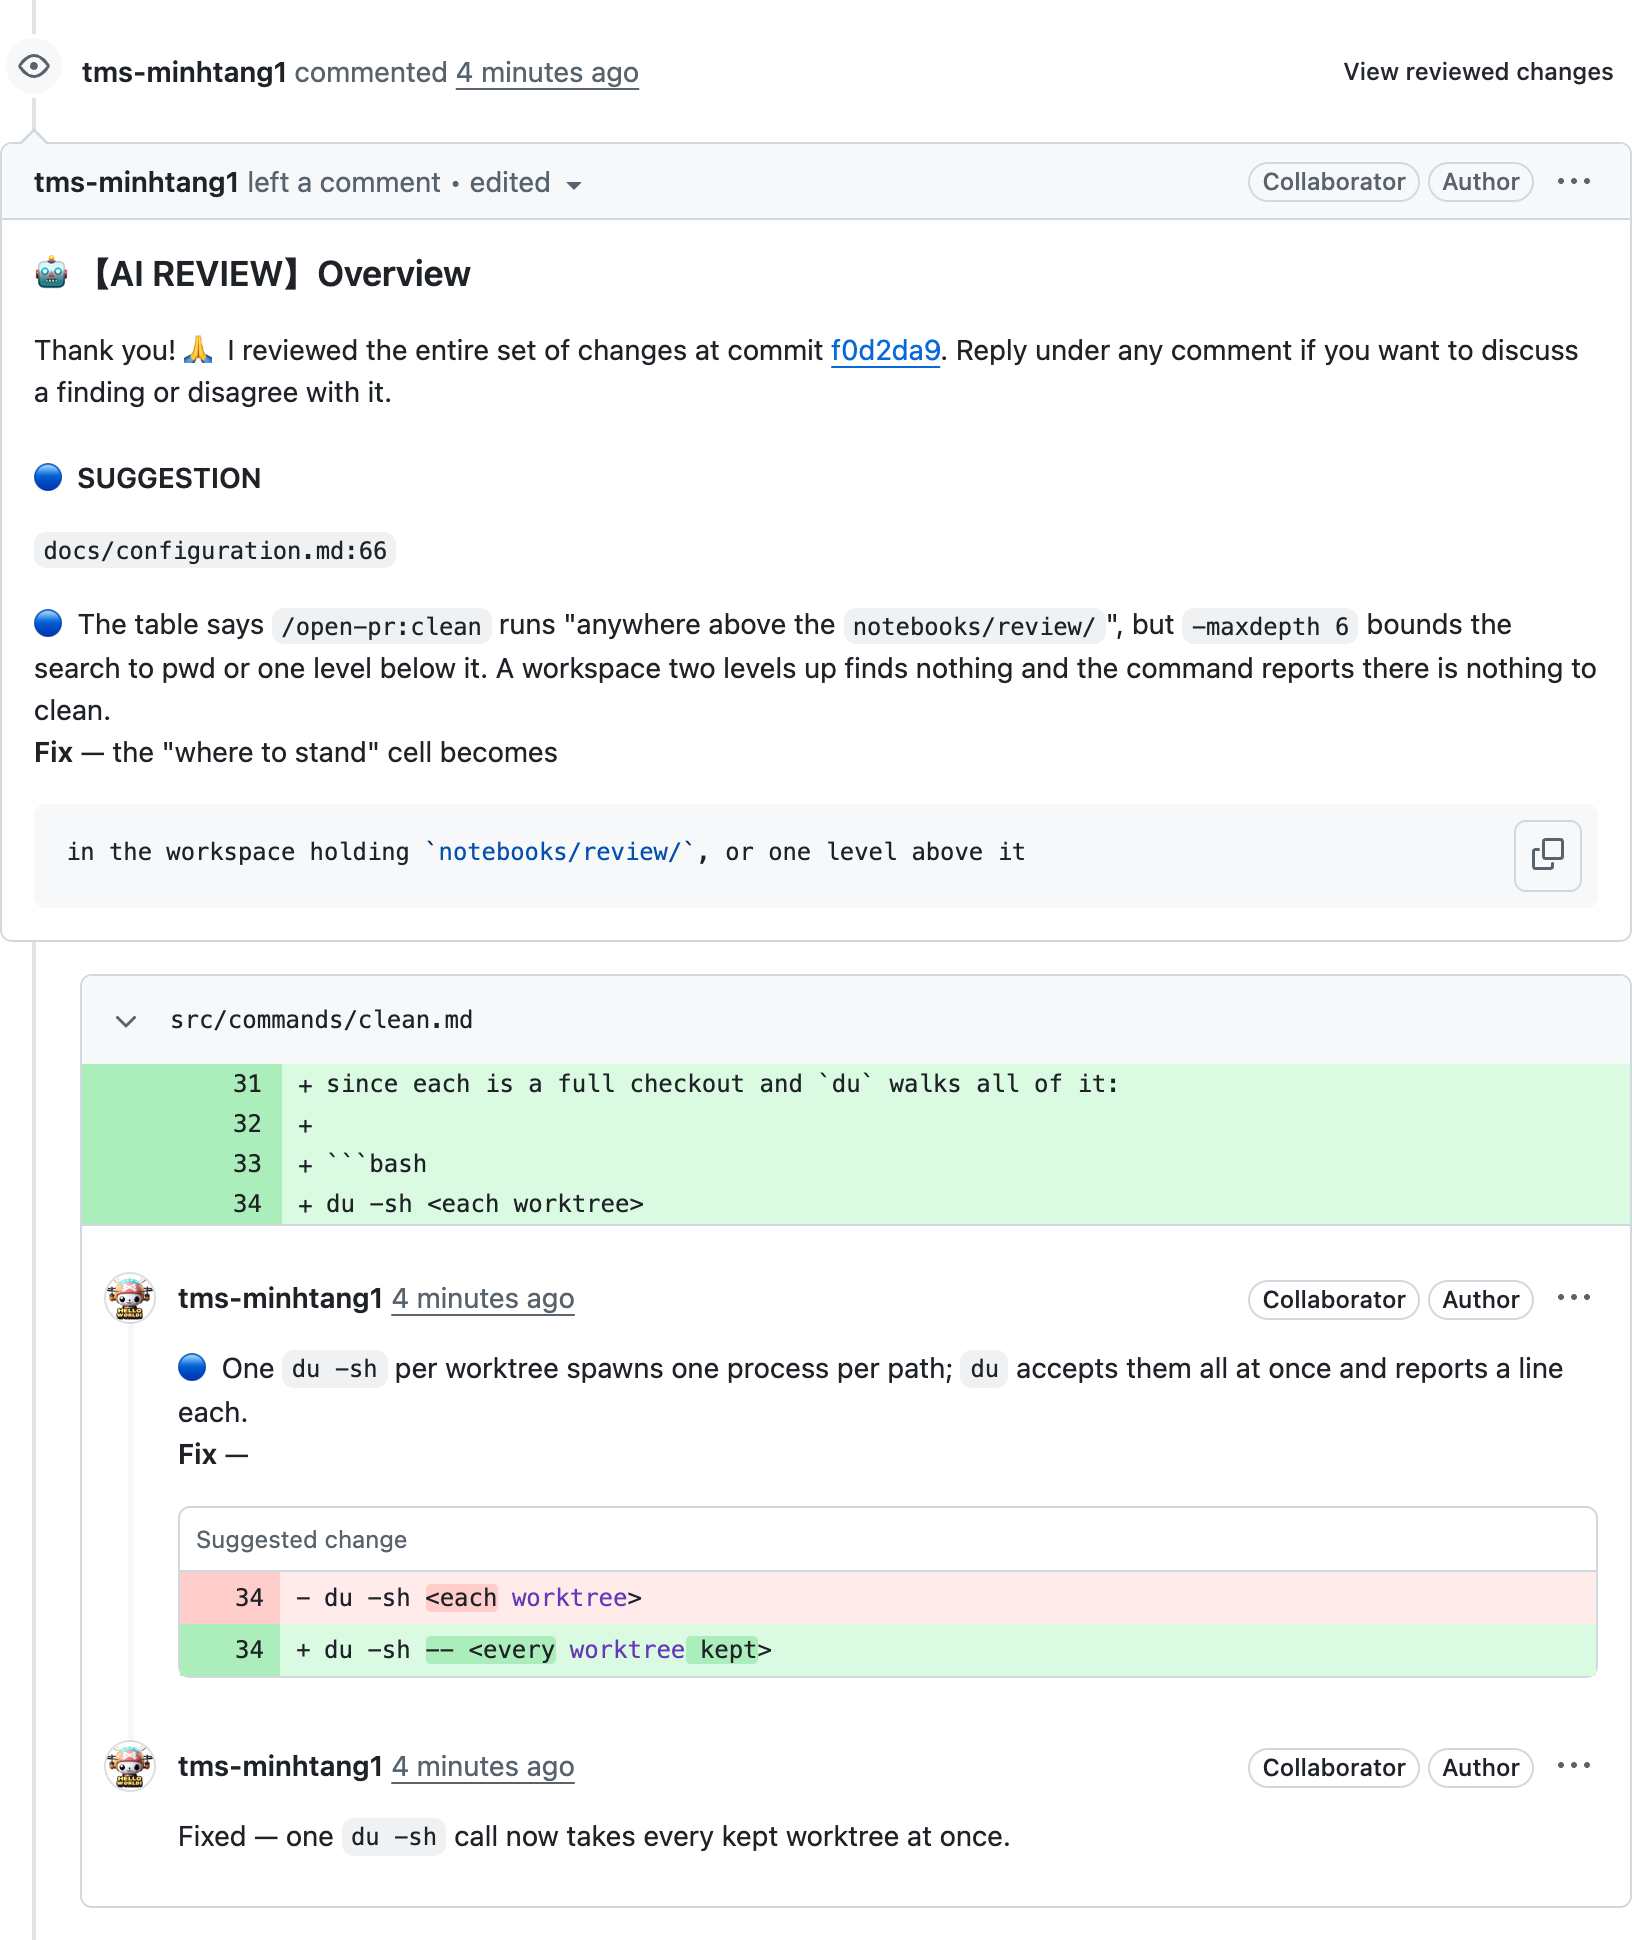
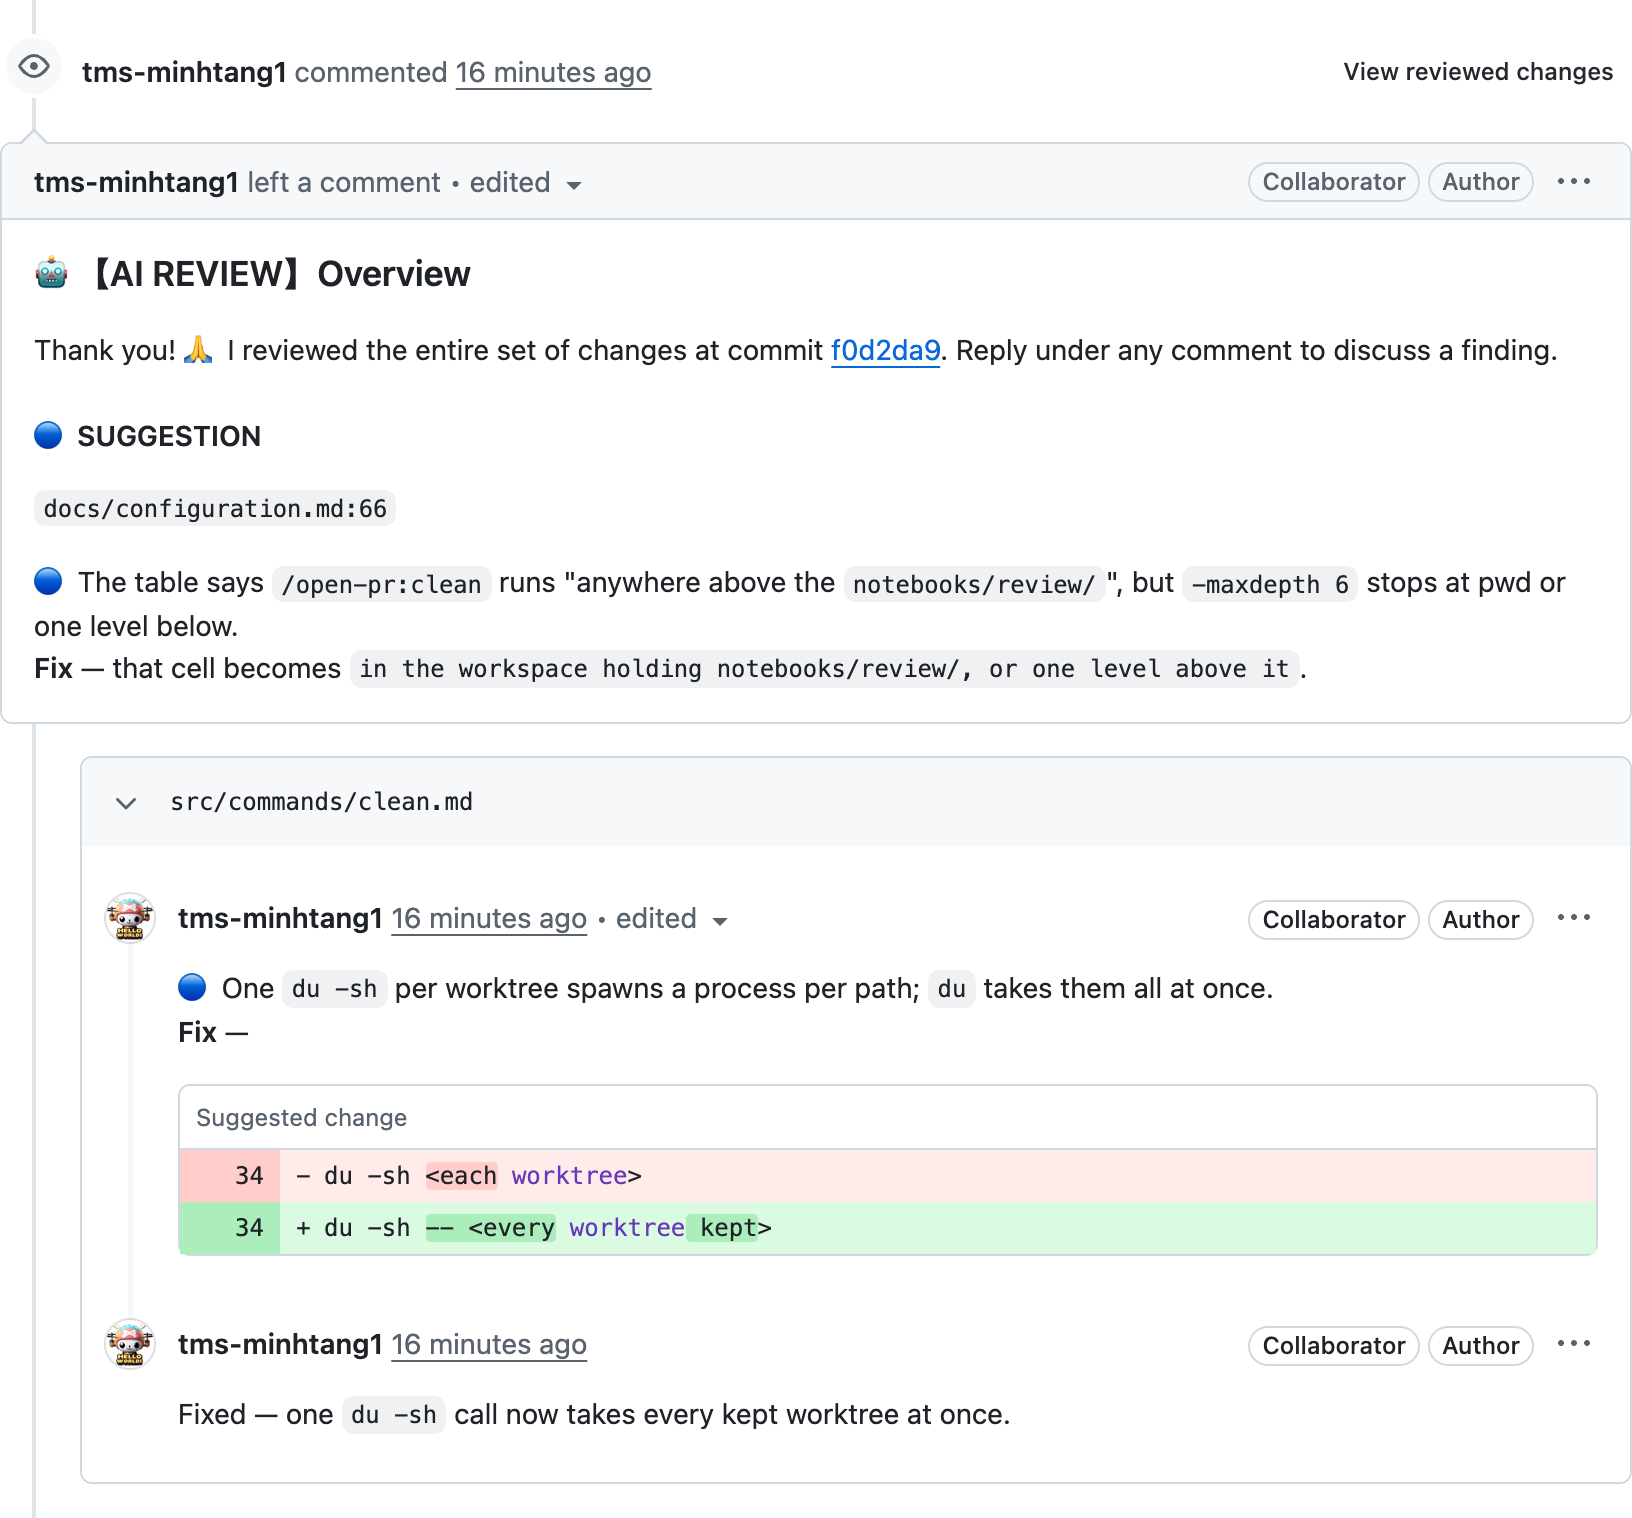
docs(demo): put the screenshot in How it runs, not behind a link
A single line asking the reader to click showed them nothing before they decide
to install. The image now sits where the flow diagram ends, scaled to 680px so
it costs ~630px of page instead of 970, and links through to the full-size page.
The demo review itself was shortened for the same reason.

diff --git a/README.ja.md b/README.ja.md
@@ -51,6 +51,16 @@ flowchart LR
 
 全体のフロー、再レビュー、そして `fix` がファイルに触れる前に行う確認: [動きかた](./docs/ja/how-it-works.md)。
 
+### 出てくるもの
+
+1 件のレビューに 3 つの要素が揃います。Overview、修正後のコードを添えた該当行へのコメント、そして push
+後に `fix` が同じスレッドへ残す返信です。
+
+<a href="./docs/ja/demo.md"><img src="./docs/images/review-demo-ja.png" width="680" alt="Overview、suggested change を含む行コメント、push 後に残された返信"></a>
+
+フルサイズと、各リポジトリが選んだ言語での同じレビュー:
+[レビューの見え方](./docs/ja/demo.md)。
+
 ## インストール
 
 ```bash
@@ -81,9 +91,6 @@ GitLab の MR なら [`glab`](https://gitlab.com/gitlab-org/cli) にログイン
 | `/open-pr:clean` | `review` が PR のコードをチェックアウトした worktree を削除 — 1 つずつが完全なチェックアウトでディスクを使う。サイズ付きで一覧し先に確認する。memory と設定には触れない |
 
 どこに立つか、各コマンドが何を書くか、すべての設定: [設定](./docs/ja/configuration.md)。
-
-Overview、該当行へのコメント、push 後に残る返信 — 実際のレビューのスクリーンショット:
-[レビューの見え方](./docs/ja/demo.md)。
 
 ## 何をレビューするか
 

diff --git a/README.vi.md b/README.vi.md
@@ -52,6 +52,16 @@ flowchart LR
 Flow đầy đủ, cơ chế re-review và guard `fix` chạy trước khi sửa file:
 [Nó chạy thế nào](./docs/vi/how-it-works.md).
 
+### Kết quả trông thế nào
+
+Một review, ba phần gắn với nhau: overview, comment trên đúng dòng kèm code đã sửa, và reply mà `fix`
+để lại trên chính thread đó sau khi push.
+
+<a href="./docs/vi/demo.md"><img src="./docs/images/review-demo-vi.png" width="680" alt="Overview, comment trên dòng kèm suggested change, và reply để lại sau khi fix đã push"></a>
+
+Ảnh full và cùng review đó bằng ngôn ngữ mà mỗi repo tự chọn:
+[Một review trông như thế nào](./docs/vi/demo.md).
+
 ## Cài đặt
 
 ```bash
@@ -82,9 +92,6 @@ account đó.
 | `/open-pr:clean` | Xoá các worktree mà `review` đã checkout code PR ra — mỗi cái là một bản checkout đầy đủ trên đĩa. Liệt kê kèm dung lượng rồi hỏi trước; memory và settings không bị chạm |
 
 Đứng ở đâu, mỗi command ghi gì, mọi setting: [Cấu hình](./docs/vi/configuration.md).
-
-Overview, comment trên đúng dòng, và reply để lại sau khi fix đã push — một ảnh của review thật:
-[Một review trông như thế nào](./docs/vi/demo.md).
 
 ## Nó review những gì
 

diff --git a/README.md b/README.md
@@ -55,6 +55,16 @@ flowchart LR
 Full flow, re-review, and the check `fix` makes before it touches a file:
 [How it works](./docs/how-it-works.md).
 
+### What comes out
+
+One review, three parts that belong together: the overview, a comment on the exact line with the
+corrected code, and the reply `fix` leaves on that same thread once the change is pushed.
+
+<a href="./docs/demo.md"><img src="./docs/images/review-demo-en.png" width="680" alt="An overview, a line comment carrying a suggested change, and the reply left after the fix was pushed"></a>
+
+Full size, and the same review in the language each repo picks:
+[What a review looks like](./docs/demo.md).
+
 ## Install
 
 ```bash
@@ -85,9 +95,6 @@ through that account.
 | `/open-pr:clean` | Removes the worktrees `review` checked PR code out into — each is a full checkout on disk. Lists them with their size and asks first; memory and settings are never touched |
 
 Where to stand, what each command writes, every setting: [Configuration](./docs/configuration.md).
-
-An overview, a comment on the exact line, and the reply left once the fix is pushed — one screenshot of
-a real review: [What a review looks like](./docs/demo.md).
 
 ## What it reviews
 
